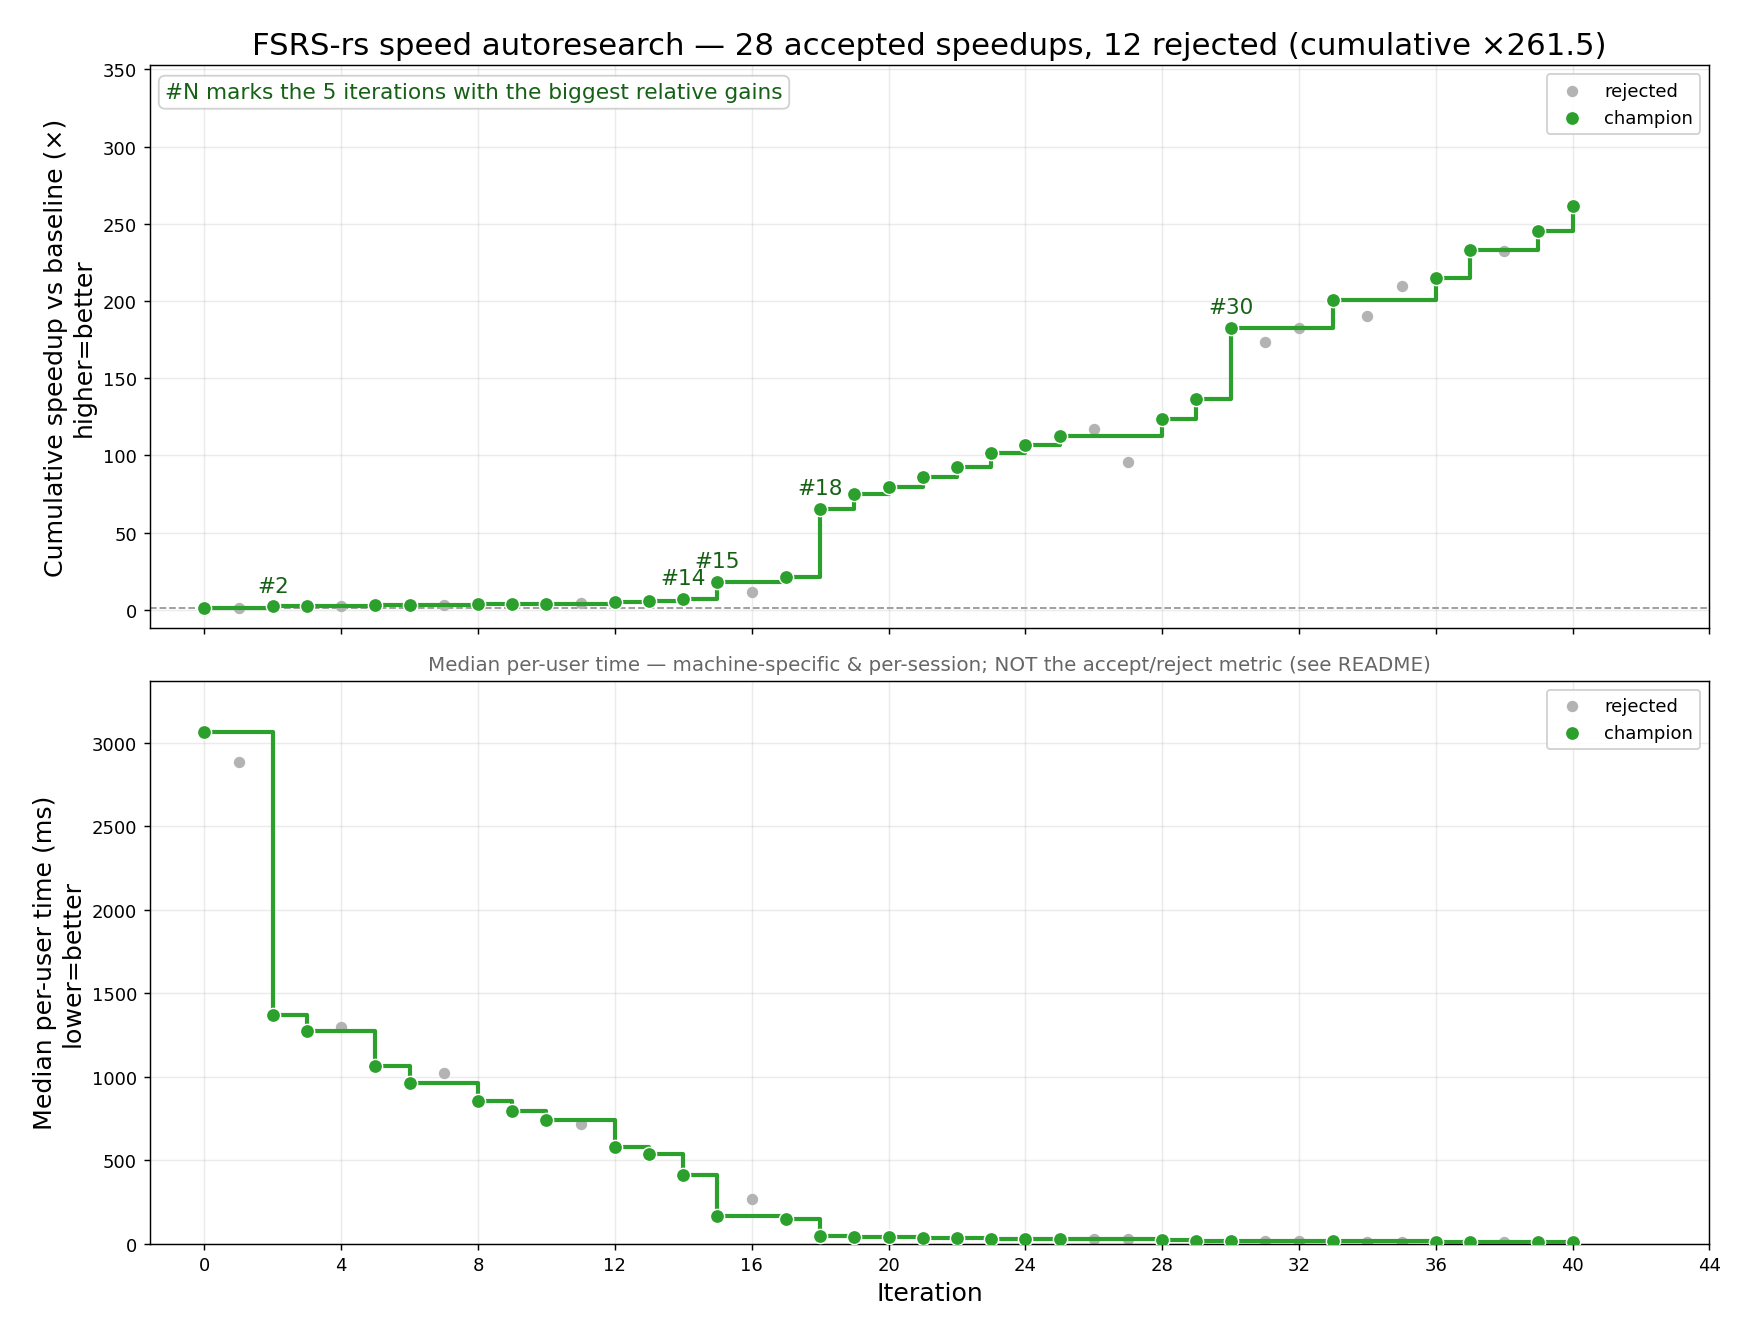
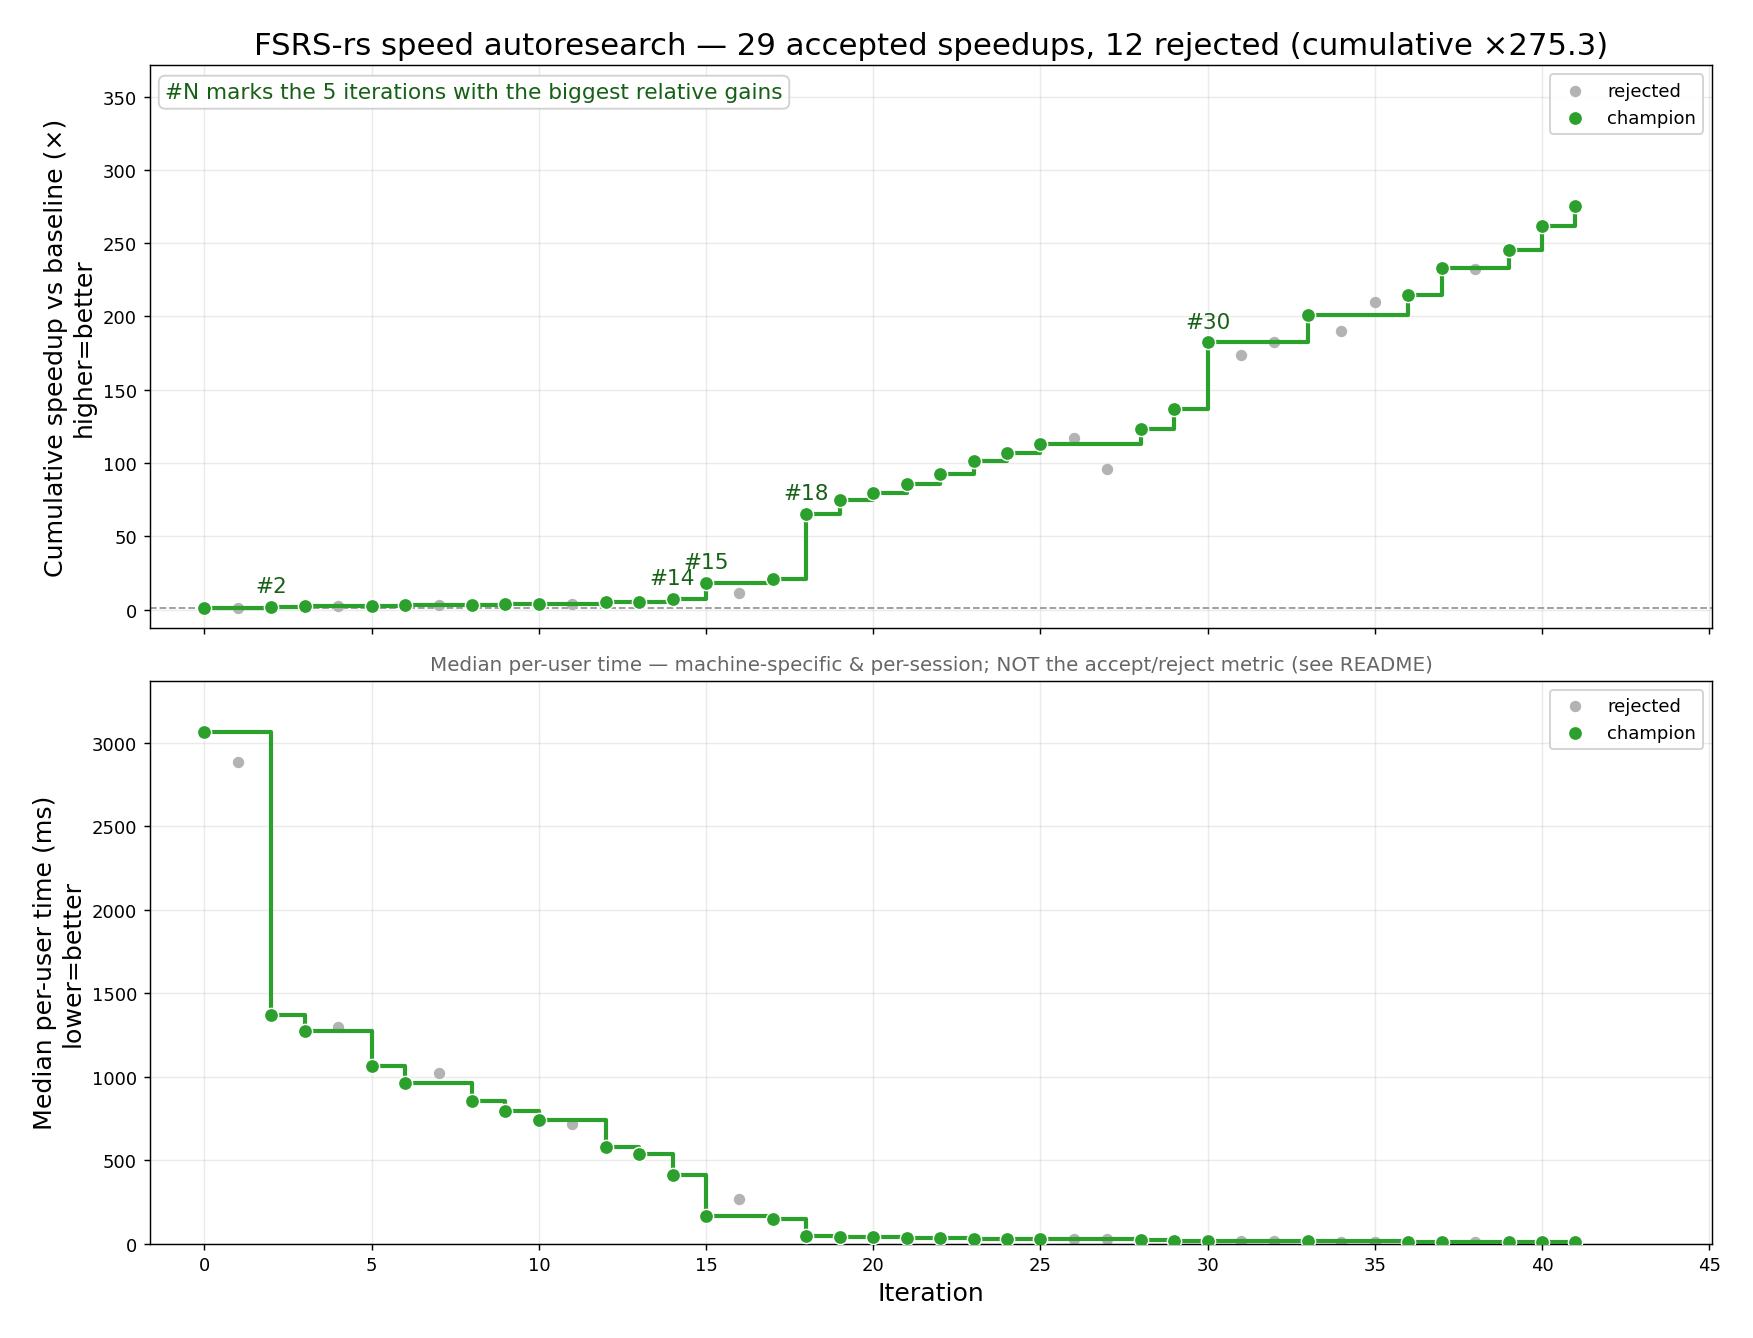
iter41 ACCEPTED: backward shares product adjoints, merges divisions, applies weight-only factors once per group (x1.053, n=1 x1.054)
3b reassociation: mean LogLoss 0.3083169 -> 0.3083168. Paired median of 3: 1.053/1.050/1.056.

diff --git a/fsrs-rs/src/analytic.rs b/fsrs-rs/src/analytic.rs
@@ -120,15 +120,14 @@ pub(crate) struct WConsts {
     // Weight-only terms of the SIMD curve's second component (decay2 = -clamp(w24) is not state-
     // modulated), computed once per call with the same f32x8 ops curve8_fwd/bwd used per step.
     decay2: f32x8,
-    inv2: f32x8,
-    p28: f32x8,
-    factor2: f32x8,
-    m2_live: f32x8, // clamp gate of m2 = w24 (all-ones lanes where 0.01 < w24 < 0.95)
-    p28_w26: f32x8, // p28 / base2[w26]
-    nid2: f32x8,    // -1 / decay2^2
+    factor2: f32x8, // p28 - 1, p28 = base2[w26]^(1/decay2)
     ln_w28_w27: f32, // ln(base_weight2[w28] / base_weight1[w27]): the constant term of the mix logit
     nrw27: f32,      // -1 / w27 = d(logit)/d(w27)
     rw28: f32,       // 1 / w28 = d(logit)/d(w28)
+    rw25: f32,       // 1 / w25 = d(ln base1)/d(w25)
+    k26: f32,        // (d(p28)/d(w26)) / factor2 = (p28 / (decay2 * w26)) / factor2
+    k24: f32,        // (d(p28)/d(w24)) / factor2 = -(p28 * ln(w26) * (-1/decay2^2)) / factor2
+    live24: bool,    // 0.01 < w24 < 0.95 (decay2's clamp is inactive)
 }
 
 pub(crate) fn wconsts(w: &[f32]) -> WConsts {
@@ -137,6 +136,7 @@ pub(crate) fn wconsts(w: &[f32]) -> WConsts {
     let decay2 = k(0.0) - clamp8(m2, 0.01, 0.95);
     let inv2 = k(1.0) / decay2;
     let p28 = exp8::<false>(inv2 * k(w[26].ln()));
+    let factor2 = p28 - k(1.0);
     WConsts {
         ln_w27: w[25].ln(),
         ln_w28: w[26].ln(),
@@ -145,15 +145,14 @@ pub(crate) fn wconsts(w: &[f32]) -> WConsts {
         init: w[4] - (w[5] * 3.0).exp() + 1.0,
         exp3w5: (w[5] as f64 * 3.0).exp(),
         decay2,
-        inv2,
-        p28,
-        factor2: p28 - k(1.0),
-        m2_live: m2.cmp_gt(k(0.01)) & m2.cmp_lt(k(0.95)),
-        p28_w26: p28 / k(w[26]),
-        nid2: k(0.0) - k(1.0) / (decay2 * decay2),
+        factor2,
         ln_w28_w27: (w[28] / w[27]).ln(),
         nrw27: -1.0 / w[27],
         rw28: 1.0 / w[28],
+        rw25: 1.0 / w[25],
+        k26: (inv2 * (p28 / k(w[26])) / factor2).to_array()[0],
+        k24: (p28 * k(w[26].ln()) * (k(0.0) - k(1.0) / (decay2 * decay2)) / factor2).to_array()[0],
+        live24: w[24] > 0.01 && w[24] < 0.95,
     }
 }
 
@@ -649,14 +648,13 @@ fn load8(s: &[f32], i: usize) -> f32x8 {
 struct Curve8 {
     out: f32x8,
     a: f32x8,
-    bv: f32x8,
+    q2: f32x8,
     r1: f32x8,
     q1: f32x8,
     e1: f32x8,
     p35: f32x8,
     b2: f32x8,
     r2: f32x8,
-    ex34: f32x8,
     sig: f32x8,
     oms: f32x8,
     ln_sf: f32x8,
@@ -693,7 +691,8 @@ fn curve8_fwd<const FAST: bool>(
     // is now the TIME-SCALE inside b2.
     let ex34 = exp8_in_range::<FAST>((d - k(5.0)) * (sp(32) - k(0.3)));
     // decay2 / p28 = base2[w26]^inv2 / factor2 are weight-only: hoisted into wc.
-    let b2 = bv * wc.factor2 * ex34 + k(1.0);
+    let q2 = bv * wc.factor2 * ex34;
+    let b2 = q2 + k(1.0);
     let ln_b2 = ln8::<FAST>(b2);
     let r2 = exp8_in_range::<FAST>(wc.decay2 * ln_b2);
     // ret = (weight1*r1 + weight2*r2) / (weight1 + weight2), weight1 = base_weight1[w27] *
@@ -708,7 +707,7 @@ fn curve8_fwd<const FAST: bool>(
     let ret = r1 * oms + r2 * sig;
     let out = ret * k(1.0 - 2e-5) + k(1e-5);
     Curve8 {
-        out, a, bv, r1, q1, e1, p35, b2, r2, ex34, sig, oms, ln_sf, ln_b1, ln_b2, ln_s,
+        out, a, q2, r1, q1, e1, p35, b2, r2, sig, oms, ln_sf, ln_b1, ln_b2, ln_s,
     }
 }
 
@@ -717,13 +716,12 @@ fn curve8_fwd<const FAST: bool>(
 #[allow(clippy::too_many_arguments)]
 #[inline(always)]
 fn curve8_bwd(
-    w: &[f32], c: &Curve8, t: f32x8, s: f32x8, sf: f32x8, d: f32x8, g_out: f32x8, g_r1_extra: f32x8,
+    w: &[f32], c: &Curve8, s: f32x8, sf: f32x8, d: f32x8, g_out: f32x8, g_r1_extra: f32x8,
     gw: &mut [f32x8; 34], wc: &WConsts,
 ) -> (f32x8, f32x8, f32x8) {
     let sp = |i: usize| f32x8::splat(w[i]);
     let k = f32x8::splat;
     let z = k(0.0);
-    let t = t.fast_max(z);
     // Cheap forward values recomputed with curve8_fwd's exact ops (smaller per-step cache).
     let m1 = sp(23) * c.p35;
     let decay1 = k(0.0) - clamp8(m1, 0.01, 0.95);
@@ -736,50 +734,39 @@ fn curve8_bwd(
     let g_r2 = g_ret * c.sig;
     // sig = sigmoid(z), dsig/dz = sig*(1-sig); z = ln(w28/w27) + w30*ln_s + (w31-0.5)*(d-5) + w29*ln_sf
     let g_z = g_ret * (c.r2 - c.r1) * (c.sig * c.oms);
-    gw[27] += g_z * k(wc.nrw27);
-    gw[28] += g_z * k(wc.rw28);
+    // Weight-only factors are applied once per group in finish_gw (slot 27 holds sum(g_z)).
+    gw[27] += g_z;
     gw[29] += g_z * c.ln_sf;
     gw[30] += g_z * c.ln_s;
     gw[31] += g_z * (d - k(5.0));
     let mut g_d = g_z * (sp(31) - k(0.5));
-    let mut g_s = g_z * sp(30) / s;
-    let mut g_sf = g_z * sp(29) / sf;
-    // r2 = b2^decay2 ; iter-165: b2 = bv*factor2*ex34 + 1 (ex34 = D time-scale) and
-    // decay2 = -clamp(w24) is no longer d-modulated.
+    // r2 = b2^decay2, b2 = q2 + 1 with q2 = (t/s)*factor2*ex34 (ex34 = exp((d-5)*(d_decay-0.3)),
+    // factor2 = p28 - 1, p28 = base2[w26]^(1/decay2), decay2 = -clamp(w24)). q2 is a product, so
+    // the adjoints of ln(t/s), ln(ex34) and ln(factor2) are all x2 = g_b2*q2.
     let g_b2 = g_r2 * wc.decay2 * (c.r2 / c.b2);
-    let mut g_decay2 = g_r2 * c.r2 * c.ln_b2;
-    let g_bv = g_b2 * wc.factor2 * c.ex34;
-    let g_factor2 = g_b2 * c.bv * c.ex34;
-    let g_ex34 = g_b2 * c.bv * wc.factor2;
-    g_d += g_ex34 * c.ex34 * (sp(32) - k(0.3)); // ex34 = exp((d-5)*(d_decay-0.3))
-    gw[32] += g_ex34 * c.ex34 * (d - k(5.0));
-    let g_p28 = g_factor2;
-    gw[26] += g_p28 * wc.inv2 * wc.p28_w26; // p28 = base2[w26]^inv2
-    let g_inv2 = g_p28 * wc.p28 * k(wc.ln_w28);
-    g_decay2 += g_inv2 * wc.nid2;
-    let g_dm2 = z - g_decay2;
-    let g_m2 = wc.m2_live.blend(g_dm2, z);
-    gw[24] += g_m2; // m2 = w24 directly (clamp gate via c.m2)
-    g_s += g_bv * (z - t / (s * s)); // bv = t/s
-    // r1 = b1^decay1
+    let x2 = g_b2 * c.q2;
+    g_d += x2 * (sp(32) - k(0.3));
+    gw[32] += x2 * (d - k(5.0));
+    // w26 and w24 enter r2 only through weight-only factors: slot 26 holds sum(x2), slot 28 the
+    // direct decay2 term; finish_gw forms gw[26] and gw[24] from them.
+    gw[26] += x2;
+    gw[28] += g_r2 * c.r2 * c.ln_b2;
+    // r1 = b1^decay1, b1 = a*factor1 + 1, a = t/sf, factor1 = e1 - 1, e1 = exp(min(q1, 60)),
+    // q1 = ln(base1[w25]) / decay1, decay1 = -clamp(w23 * p35), p35 = sf^(s_decay1[w33]-0.3).
     let g_b1 = g_r1 * decay1 * (c.r1 / b1);
     let mut g_decay1 = g_r1 * c.r1 * c.ln_b1;
-    let g_a = g_b1 * factor1;
-    let g_factor1 = g_b1 * c.a;
-    let g_e1 = g_factor1;
-    let g_q1c = g_e1 * c.e1;
-    let g_q1 = c.q1.cmp_lt(k(60.0)).blend(g_q1c, z);
-    // q1 = ln(base1) / decay1
+    let g_a_a = g_b1 * factor1 * c.a; // adjoint of ln(a)
+    let g_q1 = c.q1.cmp_lt(k(60.0)).blend(g_b1 * c.a * c.e1, z);
     let g_lw27 = g_q1 / decay1;
-    g_decay1 += g_q1 * (z - k(wc.ln_w27) / (decay1 * decay1));
-    gw[25] += g_lw27 / sp(25); // ln_base1 = ln(w[25])
-    let g_dm1 = z - g_decay1;
-    let g_m1 = (m1.cmp_gt(k(0.01)) & m1.cmp_lt(k(0.95))).blend(g_dm1, z);
-    gw[23] += g_m1 * c.p35; // m1 = decay1[w23] * p35
-    let g_p35 = g_m1 * sp(23);
-    g_sf += g_p35 * (sp(33) - k(0.3)) * (c.p35 / sf); // p35 = s_short^(s_decay1-0.3)
-    gw[33] += g_p35 * c.p35 * c.ln_sf;
-    g_sf += g_a * (z - t / (sf * sf)); // a = t/sf
+    g_decay1 -= g_lw27 * c.q1; // d(q1)/d(decay1) = -q1/decay1
+    gw[25] += g_lw27; // ln_base1 = ln(w[25]); finish_gw applies 1/w25
+    let g_m1 = (m1.cmp_gt(k(0.01)) & m1.cmp_lt(k(0.95))).blend(z - g_decay1, z);
+    gw[23] += g_m1 * c.p35;
+    let y = g_m1 * sp(23) * c.p35; // adjoint of ln(p35)
+    gw[33] += y * c.ln_sf;
+    // d/ds and d/dsf of every ln(s)/ln(sf) term, over ONE division each.
+    let g_s = (g_z * sp(30) - x2) / s;
+    let g_sf = (g_z * sp(29) + y * (sp(33) - k(0.3)) - g_a_a) / sf;
     (g_s, g_sf, g_d)
 }
 
@@ -866,9 +853,10 @@ fn stab8_bwd(
     let g_prod = g_sinc;
     let base = aa * bb * c.cc * em1;
     let prod = base * he;
-    gw[start] += g_prod * prod; // aa = exp(w[start]-1.5); dprod/dw[start] = prod
+    // prod is a product, so the adjoint of ln(aa) and of ln(cc) are both g_prod * prod.
+    let p_ln = g_prod * prod;
+    gw[start] += p_ln; // aa = exp(w[start]-1.5)
     let g_bb = g_prod * (aa * c.cc * em1 * he);
-    let g_cc = g_prod * (aa * bb * em1 * he);
     let g_em1 = g_prod * (aa * bb * c.cc * he);
     // d(prod)/d(hard_penalty) on rating-2 lanes and d(prod)/d(easy_bonus) on rating-4 lanes are
     // both `base` (the other factor is exactly 1 there).
@@ -876,24 +864,24 @@ fn stab8_bwd(
     gw[start + 6] += rating.cmp_eq(k(2.0)).blend(g_base, z); // hard_penalty
     gw[start + 7] += rating.cmp_eq(k(4.0)).blend(g_base, z); // easy_bonus
     let g_last_d = g_bb * (z - one); // bb = 11 - last_d (the ONLY D-dependence of stab now)
-    g_last_s += g_cc * k(-w[start + 1]) * (c.cc / last_s);
-    gw[start + 1] += g_cc * (z - c.cc * ln_ls);
+    // cc = last_s^-w[start+1] = exp(-w[start+1] * ln_ls)
+    g_last_s += p_ln * k(-w[start + 1]) / last_s;
+    gw[start + 1] -= p_ln * ln_ls;
     // expr = exp((1-r)*w[start+2])
     let mut g_r = g_em1 * c.expr * k(-w[start + 2]);
     gw[start + 2] += g_em1 * c.expr * (one - r);
     // nsf_fail = fail_mult[start+3] * pr * (qbase-1) ; pr = rexp = exp((1-r)*fail_r_mult[start+5])
     // (fail_d_exp DROPPED: no pp = last_d^-x factor, so nsf_fail is D-independent).
-    let q = c.qbase - one;
-    gw[start + 3] += g_nsf_fail * (c.pr * q);
-    let g_pr = g_nsf_fail * sp(start + 3) * q; // adjoint on pr(=rexp)
-    let g_q = g_nsf_fail * sp(start + 3) * c.pr; // adjoint on (qbase-1)
-    let g_pr_pr = g_pr * c.pr; // shared  pr * d(pr)/d(.)  factor
+    // The adjoint of ln(fail_mult) and of ln(pr) are both n_ln = g_nsf_fail * nsf_fail.
+    let n_ln = g_nsf_fail * c.nsf_fail;
+    gw[start + 3] += n_ln; // finish_gw applies 1/fail_mult
     // pr = exp((1-r)*fail_r_mult[start+5])
-    g_r += g_pr_pr * k(-w[start + 5]); // d(pr)/d(r) = pr*(-fail_r_mult)
-    gw[start + 5] += g_pr_pr * (one - r); // d(pr)/d(fail_r_mult) = pr*(1-r)
-    // qbase = (last_s+1)^fail_s_exp[start+4]
-    g_last_s += g_q * sp(start + 4) * (c.qbase / (last_s + one));
-    gw[start + 4] += g_q * c.qbase * c.ln_ls1;
+    g_r += n_ln * k(-w[start + 5]);
+    gw[start + 5] += n_ln * (one - r);
+    // qbase = (last_s+1)^fail_s_exp[start+4]; q_ln = adjoint of ln(qbase)
+    let q_ln = g_nsf_fail * sp(start + 3) * c.pr * c.qbase;
+    g_last_s += q_ln * sp(start + 4) / (last_s + one);
+    gw[start + 4] += q_ln * c.ln_ls1;
     (g_last_s, g_last_d, g_r)
 }
 
@@ -1043,7 +1031,6 @@ pub(crate) enum Step8 {
         d0: f32x8,
         sf0: f32x8,
         rating: f32x8,
-        dt: f32x8,
         curve: Curve8,
         slow: Stab8,
         fast: Stab8,
@@ -1094,10 +1081,9 @@ fn step8_fwd<const FAST: bool>(
         // The incoming state is a previous step8_fwd output, which is already clamped (the first
         // step clamps its init values too), so clamping it again would change nothing.
         let (last_s, last_d, last_sf) = (s0, d0, sf0);
-        let dt = dt_raw; // curve8_fwd/bwd clamp it at 0 themselves
         let ln_last_s = ln8::<FAST>(last_s);
         let ln_last_sf = ln8::<FAST>(last_sf);
-        let curve = curve8_fwd::<FAST>(w, dt, last_s, last_sf, last_d, wc, ln_last_s, ln_last_sf);
+        let curve = curve8_fwd::<FAST>(w, dt_raw, last_s, last_sf, last_d, wc, ln_last_s, ln_last_sf);
         let r = curve.out;
         let r1 = curve.r1; // short component recall — drives the short-trace update (iter-71)
         let slow = stab8_fwd::<FAST>(w, last_s, last_d, r, rating, 7, wc.aa7, ln_last_s);
@@ -1114,7 +1100,7 @@ fn step8_fwd<const FAST: bool>(
         (
             out,
             Step8::Full {
-                s0, d0, sf0, rating, dt, curve, slow, fast, nd_out_pre, nd_delta_d,
+                s0, d0, sf0, rating, curve, slow, fast, nd_out_pre, nd_delta_d,
             },
         )
     }
@@ -1153,7 +1139,7 @@ fn step8_bwd(
             (z, z, z)
         }
         Step8::Full {
-            s0, d0, sf0, rating, dt, curve, slow, fast, nd_out_pre, nd_delta_d,
+            s0, d0, sf0, rating, curve, slow, fast, nd_out_pre, nd_delta_d,
         } => {
             // Cheap forward values recomputed with step8_fwd's exact ops (smaller per-step cache).
             let (last_s, last_d, last_sf) = (*s0, *d0, *sf0); // already clamped (see step8_fwd)
@@ -1191,7 +1177,7 @@ fn step8_bwd(
                 next_d8_bwd(w, *nd_out_pre, *nd_delta_d, last_d, *rating, curve.out, g_nd2, gw, wc.exp3w5);
             // curve.out adjoint = long-stab r + windowed loss adjoint + next_d r; curve.r1 = short-stab r.
             let (g_ls_d, g_lsf_d, g_ld_d) = curve8_bwd(
-                w, curve, *dt, last_s, last_sf, last_d, g_r_long + g_r_loss + g_r_nextd, g_r1_short,
+                w, curve, last_s, last_sf, last_d, g_r_long + g_r_loss + g_r_nextd, g_r1_short,
                 gw, wc,
             );
             let g_last_s = g_ls_a + g_ls_d + g_last_s_extra;
@@ -1262,7 +1248,7 @@ fn loss_and_grad_range_simd(
         let g_rraw = (r_raw.cmp_gt(k(MIN_R)) & r_raw.cmp_lt(k(MAX_R))).blend(g_r, k(0.0));
         let mut gw_g = [f32x8::splat(0.0); 34];
         let (mut g_s, mut g_sf, mut g_d) =
-            curve8_bwd(w, &fc, dts, s, sf, d, g_rraw, f32x8::splat(0.0), &mut gw_g, &wc);
+            curve8_bwd(w, &fc, s, sf, d, g_rraw, f32x8::splat(0.0), &mut gw_g, &wc);
         for t in (0..sl).rev() {
             // O(N^2) path: the only loss is the final curve (handled above), so no per-step adjoint.
             let (gs0, gd0, gsf0) =
@@ -1271,8 +1257,9 @@ fn loss_and_grad_range_simd(
             g_d = gd0;
             g_sf = gsf0;
         }
+        let gg = finish_gw(&gw_g, w, &wc);
         for i in 0..34 {
-            gw[i] += gw_g[i].reduce_add() as f64;
+            gw[i] += gg[i] as f64;
         }
     }
     0.0
@@ -1397,14 +1384,30 @@ pub(crate) fn card_group_grad(
     let g_rraw_last = g_r_loss_at(fc_last.out, weights, labels, lbase);
     // Ungated, like step8_bwd's input adjoints (the previous step's backward applies the mask).
     let (mut g_s, mut g_sf, mut g_d) =
-        curve8_bwd(w, &fc_last, dt_last, s, sf, d, g_rraw_last, z, &mut gw_g, wc);
+        curve8_bwd(w, &fc_last, s, sf, d, g_rraw_last, z, &mut gw_g, wc);
     for (t, cache) in caches.iter().enumerate().skip(1).rev() {
         let g_r_loss = g_r_loss_at(cache.curve_out(), weights, labels, t * batch + c0);
         (g_s, g_d, g_sf) = step8_bwd(w, cache, (g_s, g_d, g_sf), g_r_loss, &mut gw_g, wc);
     }
     // init step (t==0): no prediction (min surviving prefix length is 2).
     step8_bwd(w, &caches[0], (g_s, g_d, g_sf), z, &mut gw_g, wc);
-    std::array::from_fn(|i| gw_g[i].reduce_add())
+    finish_gw(&gw_g, w, wc)
+}
+
+/// Lane sums of a group's gradient bank, with the weight-only factors that the per-step backward
+/// leaves out: slot 27 = sum(g_z) (-> gw[27], gw[28]), slot 26 = sum(x2) and slot 28 = the direct
+/// decay2 term (-> gw[26], gw[24]), slot 25 = sum(g_lw27), slots 10 / 18 = sum(n_ln) per trace.
+fn finish_gw(gw_g: &[f32x8; 34], w: &[f32], wc: &WConsts) -> [f32; 34] {
+    let mut g: [f32; 34] = std::array::from_fn(|i| gw_g[i].reduce_add());
+    let (s_z, s_x2, s_dec2) = (g[27], g[26], g[28]);
+    g[27] = s_z * wc.nrw27;
+    g[28] = s_z * wc.rw28;
+    g[26] = s_x2 * wc.k26;
+    g[24] = if wc.live24 { -(s_dec2 + s_x2 * wc.k24) } else { 0.0 };
+    g[25] *= wc.rw25;
+    g[10] *= 1.0 / w[10];
+    g[18] *= 1.0 / w[18];
+    g
 }
 
 /// Windowed forward-only BCE loss (validation) — `card_loss_and_grad_simd`'s forward without the

diff --git a/result/history.md b/result/history.md
@@ -45,6 +45,7 @@ Accept metric: **median per-user speed_ratio ≥ 1.05** (constraint 12) AND **sp
 | 38 | 12 | 12 | 0.995 | 10775 | 10788 | 1.001 | 1.004 | ✓ | rejected | exp8: add n to the polynomial's exponent bits instead of multiplying by 2^n |
 | 39 | 11 | 10 | 1.052 | 10775 | 10869 | 1.009 | 1.022 | ✓ | accepted | Helper lays out batches in training order; no per-step clock reads, allocations, dead penalty value |
 | 40 | 11 | 10 | 1.065 | 10869 | 10907 | 1.004 | 1.009 | ✓ | accepted | Curve mix as sigmoid (one exp fewer) + exact kernel, plan, penalty, Adam trims |
+| 41 | 10 | 9 | 1.053 | 10907 | 10916 | 1.001 | 1.002 | ✓ | accepted | Backward: share product adjoints, merge divisions, apply weight-only factors once per group |
 
-**Cumulative speed_ratio (product of accepted): ×261.476** — upward-biased (winner's curse); anchor periodically vs iter-0 baseline.
+**Cumulative speed_ratio (product of accepted): ×275.256** — upward-biased (winner's curse); anchor periodically vs iter-0 baseline.
 
